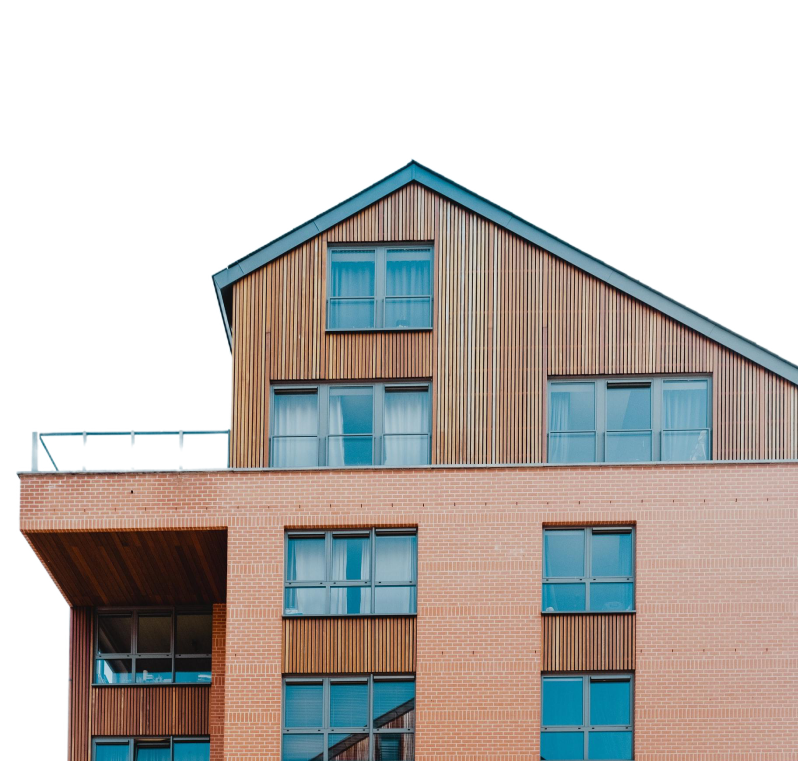
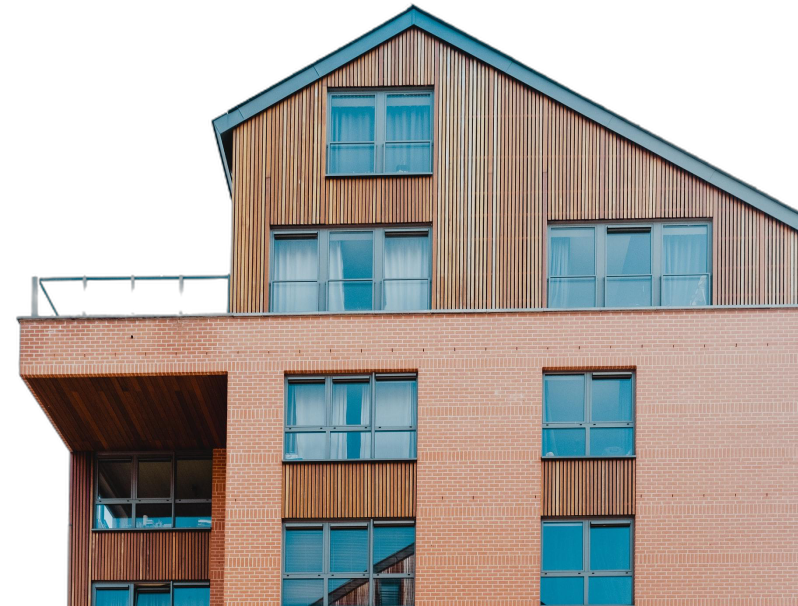
feat: main and header adjustes

diff --git a/src/pages/Main.jsx b/src/pages/Main.jsx
@@ -1,0 +1,152 @@
+import styled from 'styled-components';
+import logoHome from '../assets/bgmain.png';
+import { useState } from 'react';
+import { SlArrowDown } from 'react-icons/sl';
+
+const MainContainer = styled.div`
+    height: 90vh;
+    background-color: #F5F5F5;
+    position: relative;
+`
+const MainSize = styled.div`
+    max-width: 1400px;
+    width: 100%;
+    margin: 0 auto;
+
+    display: flex;
+    flex-direction: column;
+    padding-top: 5rem;
+    h2 {
+        color: var(--color-green);
+        font-weight: 450;
+        font-size: 1.3rem;
+        text-transform: uppercase;
+    }
+    h1 {
+        color: var(--color-title);
+        font-weight: 550;
+        font-size: 4rem;
+        max-width: 15ch;
+        margin-top: 3rem;
+    }
+    p {
+        color: var(--color-description);
+        font-weight: 400;
+        font-size: 1rem;
+        max-width: 55ch;
+        margin-top: 3rem;
+    }
+
+`
+const ImgCasaMain = styled.img`
+    position: absolute;
+    z-index: 0;
+    right: 0;
+    bottom: 10%;
+    width: 50%;
+`
+const DivTabsBuyRent = styled.div`
+    position: relative;
+`
+const TabContainer = styled.div`
+  display: flex;
+  gap: 10px;
+  margin-top: 2rem;
+`;
+
+const TabOption = styled.div`
+  cursor: pointer;
+  padding: 1rem;
+  font-size: 1.3rem;
+  color: ${({ active }) => (active ? 'var(--color-green)' : 'var(--color-title)')};
+  background-color: ${({ active }) => (active ? '#FEFEFF' : 'transparent')};
+`;
+
+const ContentContainer = styled.div`
+  position: absolute;
+  top: 80px; 
+  left: 0; 
+  display: ${({ active }) => (active ? 'flex' : 'none')};
+  justify-content: space-between;
+  background-color: ${({ active }) => (active ? '#FEFEFF' : 'transparent')};
+  box-shadow: ${({ active }) => (active ? 'rgba(0, 0, 0, 0.1) 0px 10px 15px -3px, rgba(0, 0, 0, 0.05) 0px 4px 6px -2px;' : 'none')};
+  width: 900px;
+  z-index: 1; 
+  padding: 2rem;
+`;
+const DropDownMain = styled.div`
+    h2 {
+        font-size: 1rem;
+        color: #000;
+    }
+    div {
+        display: flex;
+        align-items: center;
+        gap: 10px;
+        margin-top: .5rem;
+    }
+    h3 {
+        color: #a8a8a8;
+    }
+`
+const ButtonBuscar = styled.button`
+    padding: 1.3rem 3rem;
+    background-color: var(--color-green);
+    color: #fff;
+    cursor: pointer;
+`
+
+const Main = () => {
+
+  const [activeTab, setActiveTab] = useState('Buy');
+
+  const handleTabClick = (tab) => {
+      setActiveTab(tab);
+  };
+    
+  return (
+      <MainContainer>
+          <MainSize>
+              <h2>Real Estate</h2>
+              <h1>Let`s hunt for your dream residence</h1>
+              <p>Explore our range of beautiful properties with the addition of separate accommodation suitable for you.</p>
+              <DivTabsBuyRent>
+                <TabContainer>
+                    <TabOption active={activeTab === 'Buy'} onClick={() => handleTabClick('Buy')}>Buy</TabOption>
+                    <TabOption active={activeTab === 'Rent'} onClick={() => handleTabClick('Rent')}>Rent</TabOption>
+                </TabContainer>
+                <ContentContainer active={activeTab === 'Buy'}>
+                    <DropDownMain>
+                          <h2>Location</h2>
+                          <div>
+                              <h3>Rio de Janeiro, RJ</h3>
+                              <SlArrowDown />
+                          </div>
+                      </DropDownMain>
+                      <DropDownMain>
+                          <h2>Type</h2>
+                          <div>
+                              <h3>Home</h3>
+                              <SlArrowDown />
+                          </div>
+                    </DropDownMain>
+                    <DropDownMain>
+                          <h2>Price Range</h2>
+                          <div>
+                              <h3>$200-$350</h3>
+                              <SlArrowDown />
+                          </div>
+                      </DropDownMain>
+                      <ButtonBuscar>Search</ButtonBuscar>
+                </ContentContainer>
+                <ContentContainer active={activeTab === 'Rent'}>
+                    <p>Content for Rent option goes here.</p>
+                </ContentContainer>
+              </DivTabsBuyRent>
+              <ImgCasaMain src={logoHome} alt="Casa de fundo" />
+          </MainSize>
+    </MainContainer>
+  )
+}
+
+export default Main

diff --git a/src/pages/Header.jsx b/src/pages/Header.jsx
@@ -1,8 +1,12 @@
 import styled from 'styled-components';
 import logo from '../assets/logo.png';
+import { useState } from 'react';
 
+const HeaderP = styled.header `
+    background-color: #F5F5F5;
+`
 const HeaderContainer = styled.div`
-    max-width: 1300px;
+    max-width: 1400px;
     width: 100%;
     margin: 0 auto;
 
@@ -20,6 +24,7 @@ const LiHeader = styled.li`
     a {
         font-size: 1.1rem;
         color: #646464;
+        font-weight: 400;
         &:visited {
             color: #616161; 
         }
@@ -31,21 +36,55 @@ const DivHeader = styled.div`
     gap: 35px;
     a {
         font-size: 1.1rem;
-        color: #363636;
-        &:visited {
-            color: #363636; 
-        }
+        color: var(--color-green);
+        font-weight: 400;
+        cursor: pointer;
     }
 `
 const LinkHeaderLogin = styled.a`
     padding: 1rem 3rem;
     background-color: #4ca484;
-    color: #fff;
+    color: #eeeeee;
+    cursor: pointer;
+    &:visited {
+        color: #fff; 
+    }
 `
+const MenuHamburger = styled.div`
+  cursor: pointer;
+  display: none;
+  padding: 3px 5px 0px 5px;
+  border-radius: 10px;
+  z-index: 999;
+  span {
+    display: block;
+    width: 25px;
+    height: 3px;
+    margin: 5px auto 0px auto;
+    transition: all 0.3s ease-in-out;
+    background-color: #505050;
+    &:nth-child(1) {
+      transform: translateY(${props => (props.open ? '8px' : '0')}) rotate(${props => (props.open ? '45deg' : '0')});
+    }
+    &:nth-child(2) {
+      opacity: ${props => (props.open ? '0' : '1')};
+    }
+    &:nth-child(3) {
+      transform: translateY(${props => (props.open ? '-8px' : '0')}) rotate(${props => (props.open ? '-45deg' : '0')});
+    }
+  }
+`;
 
 const Header = () => {
+
+  const [isOpen, setIsOpen] = useState(false);
+
+  const toggleMenu = () => {
+    setIsOpen(!isOpen);
+  };
+    
   return (
-      <header>
+      <HeaderP>
           <HeaderContainer>
               <img src={logo} alt="Logo" />
               <nav>
@@ -61,8 +100,13 @@ const Header = () => {
                   <a href="#">Sign up</a>
                   <LinkHeaderLogin href="#">Login</LinkHeaderLogin>
               </DivHeader>
+              <MenuHamburger open={isOpen} onClick={() => { toggleMenu(); }}>
+                <span></span>
+                <span></span>
+                <span></span>
+              </MenuHamburger>
           </HeaderContainer>
-    </header>
+    </HeaderP>
   )
 }
 

diff --git a/index.html b/index.html
@@ -4,6 +4,7 @@
     <meta charset="UTF-8" />
     <meta name="viewport" content="width=device-width, initial-scale=1.0" />
     <title>Real Estate</title>
+    <link rel="icon" href="./src/assets/icon.png">
     <link rel="preconnect" href="https://fonts.googleapis.com">
     <link rel="preconnect" href="https://fonts.gstatic.com" crossorigin>
     <link href="https://fonts.googleapis.com/css2?family=Montserrat:ital,wght@0,200;0,300;0,400;0,500;0,600;0,700;0,900;1,400;1,500&family=Poppins:wght@200;300;400;500;600;700;800;900&display=swap" rel="stylesheet">

diff --git a/src/styles/globalStyles.jsx b/src/styles/globalStyles.jsx
@@ -2,6 +2,9 @@ import { createGlobalStyle } from 'styled-components';
 
 const GlobalStyle = createGlobalStyle`
     :root {
+    --color-green: #4ca484;
+    --color-title: #002652;
+    --color-description: #505050;
     --font: 'Poppins', sans-serif;
     --font2: 'Montserrat', sans-serif;
 }

diff --git a/src/App.jsx b/src/App.jsx
@@ -1,4 +1,5 @@
 import Header from "./pages/Header"
+import Main from "./pages/Main"
 import GlobalStyle from "./styles/globalStyles"
 
 function App() {
@@ -6,6 +7,7 @@ function App() {
     <>
       <GlobalStyle />
       <Header />
+      <Main />
     </>
   )
 }
